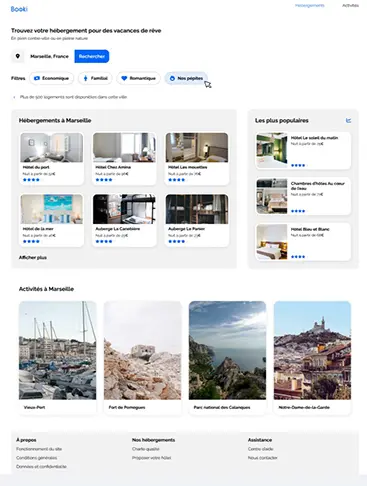
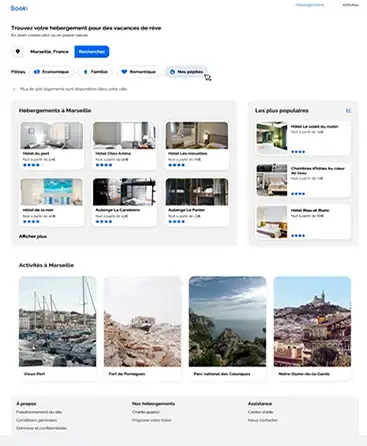
fix: responsive

diff --git a/assets/style/style.css b/assets/style/style.css
@@ -122,7 +122,7 @@ header{
     .about_portrait{
         position: absolute;
         left: 22%;
-        top: 85%;
+        top: 78%;
  
     }
     .portrait_img{
@@ -504,7 +504,7 @@ header{
     }
     .about_portrait{
         left: 14%;
-        top: 65%;
+        top: 60%;
     }
 }
 @media screen and (max-width:1024px){
@@ -541,7 +541,7 @@ header{
     }
     .about_portrait{
         left: 9%;
-        top: 55%;
+        top: 50%;
     }
     .gallery{
         grid-column-gap: 67px;
@@ -586,6 +586,24 @@ header{
         top: 100%;
     }
 }
+
+
+@media screen and (max-width:769px){
+    .about_portrait{
+        top: 55%;
+        left:10%;
+    }
+    .gallery{
+        display: flex;
+        flex-direction: column;
+        align-items: center;
+        justify-content: center;
+        width: calc(100% - 60px);
+    }
+    .gallery_cards{
+        min-height: 270px;
+    }
+}
 @media screen and (max-width:634px){
     .nav_link_content{
         gap: 10px;
@@ -617,17 +635,6 @@ header{
     .about_description{
     font-size: 12px;
 }
-}
-
-@media screen and (max-width:769px){
-    .about_portrait{
-        top: 60%;
-        left:10%;
-    }
-    .gallery_cards{
-        min-height: 270px;
-        height: max-content;
-    }
 }
 @media screen and (max-width:525px){
     .me_img{
@@ -692,6 +699,14 @@ header{
         left: 25%;
         top: 57%;
     }
+    .gallery_cards{
+        display: flex;
+        flex-direction: column;
+        align-items: center;
+        justify-content: center;
+        gap: 20px;
+        max-height: 250px;
+    }
 }
 @media screen and (max-width:476px){
     .about_portrait{
@@ -700,9 +715,12 @@ header{
     }
 }
 @media screen and (max-width:426px){
+    .banner{
+        top: 20%;
+    }
     .about_portrait{
         left: 27%;
-        top: 57%;
+        top: 34%;
     }
     .modal_img{
         width: 150px;
@@ -715,7 +733,7 @@ header{
 @media screen and (max-width:376px){
     .about_portrait{
         left: 20%;
-        top: 58%;
+        top: 34%;
     }
     .techno_container{
         gap: 20px;
@@ -723,6 +741,7 @@ header{
     .send_mail_title{
         font-size: 15px;
     }
+
 }
 @media screen and (max-width:320px){
     .nav_link_content{
@@ -731,7 +750,7 @@ header{
     }
     .about_portrait{
         left: 15%;
-        top: 57%;
+        top: 35%;
     }
     .who_title{
         font-size: 18px;
